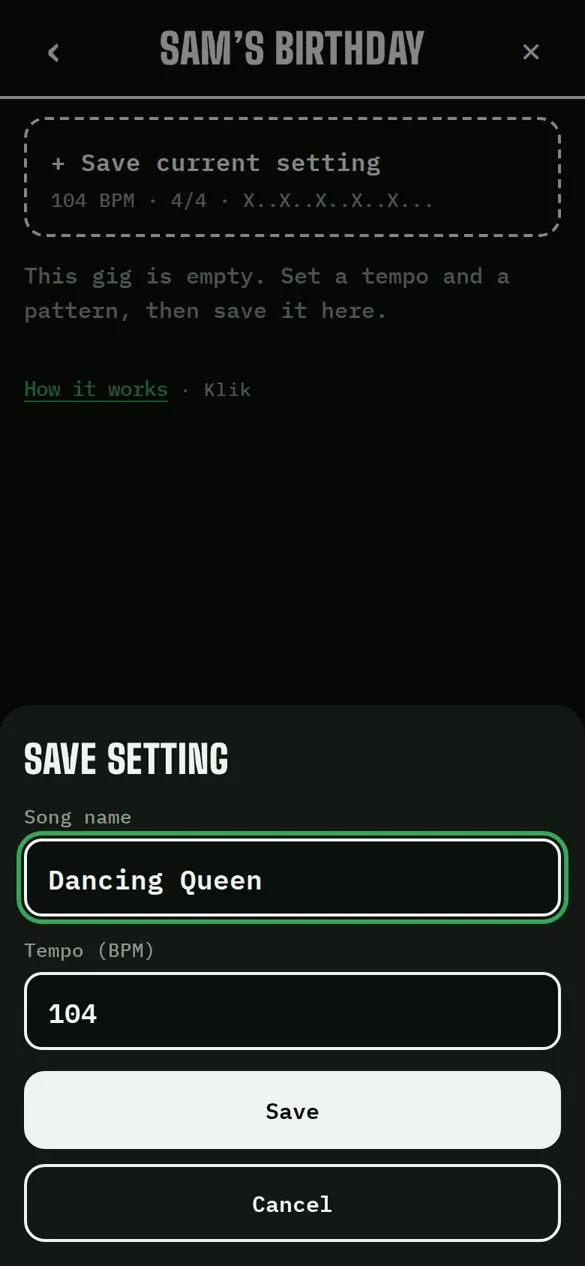
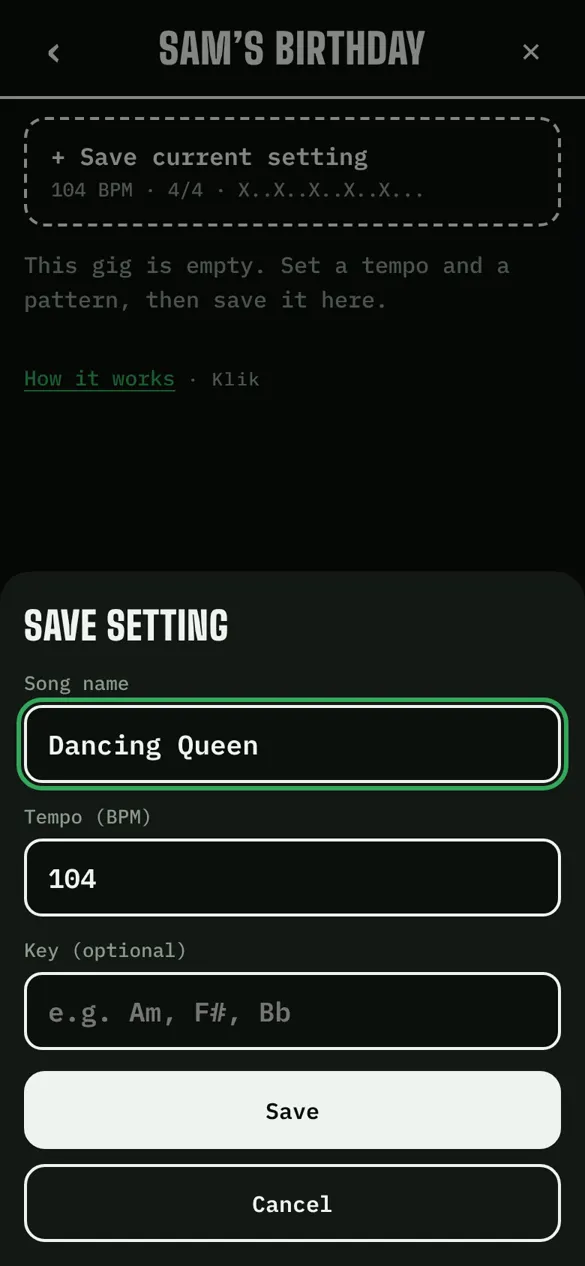
Klik v0.16.2: guide screenshots redone, guide part 5 on the band server
- Guide screenshots regenerated on the real app (SVG speaker icon, Key field),
  plus three new ones per language (nickname, shared setlists, new version
  banner) for a new part 5 "The band server" in guide.html. The service
  worker precaches them.
- video/guide-shots.mjs runs against the Klik server (shared setlists need
  the API) and the updated song menu label.
- New-version check: at most once every 10 s per gig instead of 60 s, so a
  gig reopened shortly after a publication shows the banner.

Claude-Session: https://claude.ai/code/session_01RyXC7JN4hfy6bK9Ln7GnCb

diff --git a/guide.html b/guide.html
@@ -4,7 +4,7 @@
   <meta charset="utf-8">
   <meta name="viewport" content="width=device-width, initial-scale=1, viewport-fit=cover">
   <title>Klik · Guide</title>
-  <meta name="description" content="Comment utiliser Klik : tempo, accents, setlist et partage. How to use Klik: tempo, accents, setlist and sharing.">
+  <meta name="description" content="Comment utiliser Klik : tempo, accents, setlist, partage et setlists partagées. How to use Klik: tempo, accents, setlist, sharing and shared setlists.">
   <meta name="theme-color" content="#0b0f0c">
   <link rel="icon" href="icons/icon.svg" type="image/svg+xml">
   <link rel="icon" href="icons/favicon-32.png" type="image/png" sizes="32x32">
@@ -136,10 +136,10 @@
         <p class="print-only" lang="en">Video walkthrough: klik.lonoize.com/guide.html</p>
       </div>
       <nav class="toc" lang="fr" aria-label="Sommaire">
-        <a href="#tempo">1 Le tempo</a><a href="#accents">2 Les accents</a><a href="#setlist">3 Ta setlist</a><a href="#partage">4 Partager</a>
+        <a href="#tempo">1 Le tempo</a><a href="#accents">2 Les accents</a><a href="#setlist">3 Ta setlist</a><a href="#partage">4 Partager</a><a href="#groupe">5 Le serveur du groupe</a>
       </nav>
       <nav class="toc" lang="en" aria-label="Contents">
-        <a href="#tempo">1 Tempo</a><a href="#accents">2 Accents</a><a href="#setlist">3 Your setlist</a><a href="#partage">4 Sharing</a>
+        <a href="#tempo">1 Tempo</a><a href="#accents">2 Accents</a><a href="#setlist">3 Your setlist</a><a href="#partage">4 Sharing</a><a href="#groupe">5 The band server</a>
       </nav>
     </header>
 
@@ -268,6 +268,36 @@
           </div>
         </div>
       </section>
+
+      <section class="part" id="groupe">
+        <div class="num">5</div>
+        <h2>Le serveur du groupe</h2>
+        <p class="lead">Les setlists au même endroit pour tout le monde.</p>
+        <div class="step">
+          <img src="guide/fr-13.webp" width="585" height="1266" loading="lazy" alt="Ton pseudo : Sam.">
+          <div>
+            <h3>Ton pseudo</h3>
+            <p>À la première ouverture de la liste, Klik demande un pseudo. Il dit au groupe <strong>qui a modifié ou publié</strong> une setlist.</p>
+            <p>On le change en bas de « Setlists partagées ».</p>
+          </div>
+        </div>
+        <div class="step">
+          <img src="guide/fr-14.webp" width="585" height="1266" loading="lazy" alt="Setlists partagées : Anniversaire Sam, 3 morceaux, publiée par Sam.">
+          <div>
+            <h3>Publier, récupérer</h3>
+            <p>Dans <span class="k">⋯</span> du concert, « Publier sur le serveur ». Le groupe le retrouve dans <strong>« Setlists partagées »</strong>, en haut de la liste des concerts, et l'importe d'un toucher.</p>
+            <p>Chaque publication est gardée : « Versions précédentes » ramène une ancienne version. Si quelqu'un a publié entre-temps, Klik prévient avant de publier par-dessus.</p>
+          </div>
+        </div>
+        <div class="step">
+          <img src="guide/fr-15.webp" width="585" height="1266" loading="lazy" alt="Bandeau : Nouvelle version sur le serveur, publiée par Sam.">
+          <div>
+            <h3>Toujours à jour</h3>
+            <p>Quand une setlist récupérée change sur le serveur, un bandeau <strong>« Nouvelle version sur le serveur »</strong> apparaît en haut du concert : un toucher, et c'est à jour.</p>
+            <p>Sans réseau, Klik marche comme avant, avec les setlists déjà sur le téléphone.</p>
+          </div>
+        </div>
+      </section>
     </div>
 
     <!-- ===================== ENGLISH ===================== -->
@@ -392,6 +422,36 @@
             <h3>A change? Send it again</h3>
             <p>After a change, send the link again. Klik recognises the gig and offers to <strong>replace it with the received version</strong>, or to keep both.</p>
             <p>In the gig's <span class="k">⋯</span> menu, “Restore previous version” undoes the replacement.</p>
+          </div>
+        </div>
+      </section>
+
+      <section class="part" id="groupe-en">
+        <div class="num">5</div>
+        <h2>The band server</h2>
+        <p class="lead">Setlists in one place for everyone.</p>
+        <div class="step">
+          <img src="guide/en-13.webp" width="585" height="1266" loading="lazy" alt="Your nickname: Sam.">
+          <div>
+            <h3>Your nickname</h3>
+            <p>The first time you open the list, Klik asks for a nickname. It tells the band <strong>who changed or published</strong> a setlist.</p>
+            <p>Change it at the bottom of “Shared setlists”.</p>
+          </div>
+        </div>
+        <div class="step">
+          <img src="guide/en-14.webp" width="585" height="1266" loading="lazy" alt="Shared setlists: Sam’s birthday, 3 songs, published by Sam.">
+          <div>
+            <h3>Publish, fetch</h3>
+            <p>In the gig's <span class="k">⋯</span> menu, “Publish to the server”. The band finds it in <strong>“Shared setlists”</strong>, at the top of the gig list, and imports it with one tap.</p>
+            <p>Every publication is kept: “Previous versions” brings an older one back. If someone published in the meantime, Klik warns you before publishing over it.</p>
+          </div>
+        </div>
+        <div class="step">
+          <img src="guide/en-15.webp" width="585" height="1266" loading="lazy" alt="Banner: New version on the server, published by Sam.">
+          <div>
+            <h3>Always up to date</h3>
+            <p>When a fetched setlist changes on the server, a <strong>“New version on the server”</strong> banner shows at the top of the gig: one tap and it's up to date.</p>
+            <p>Offline, Klik works as before, with the setlists already on the phone.</p>
           </div>
         </div>
       </section>

diff --git a/js/app.js b/js/app.js
@@ -1000,7 +1000,7 @@ button { position: fixed; top: 10px; right: 10px; padding: 10px 20px; font: 600 
   }
 
   // Y a-t-il une version plus récente sur le serveur ? (route légère api/concerts/:id/version)
-  // Résultat gardé 60 s par concert pour ne pas interroger le serveur à chaque affichage.
+  // Résultat gardé 10 s par concert pour ne pas interroger le serveur à chaque affichage.
   const seenRemote = new Map();   // id → { at, latest }
   function newerOnServer(c) {
     const s = c.remote && seenRemote.get(c.id);
@@ -1009,7 +1009,7 @@ button { position: fixed; top: 10px; right: 10px; padding: 10px 20px; font: 600 
   async function checkRemote(c, onNews) {
     if (!hasServer() || !c.remote) return;
     const s = seenRemote.get(c.id);
-    if (s && Date.now() - s.at < 60000) return;
+    if (s && Date.now() - s.at < 10000) return;
     seenRemote.set(c.id, { at: Date.now(), latest: s && s.latest });
     let latest = null;
     try { latest = (await api('GET', concertPath(c.id) + '/version')).body; } catch (e) { /* hors-ligne ou retiré du serveur */ }

diff --git a/sw.js b/sw.js
@@ -4,7 +4,7 @@
 // l'active avec le bandeau « Mettre à jour ».
 //
 // SOURCE UNIQUE DE LA VERSION : à incrémenter à CHAQUE modification déployée.
-const VERSION = '0.16.1';
+const VERSION = '0.16.2';
 
 const CACHE = 'klik-' + VERSION;
 const FONT_CACHE = 'klik-fonts';
@@ -37,6 +37,9 @@ const ASSETS = [
   'guide/fr-10.webp',
   'guide/fr-11.webp',
   'guide/fr-12.webp',
+  'guide/fr-13.webp',
+  'guide/fr-14.webp',
+  'guide/fr-15.webp',
   'guide/en-01.webp',
   'guide/en-02.webp',
   'guide/en-03.webp',
@@ -49,6 +52,9 @@ const ASSETS = [
   'guide/en-10.webp',
   'guide/en-11.webp',
   'guide/en-12.webp',
+  'guide/en-13.webp',
+  'guide/en-14.webp',
+  'guide/en-15.webp',
 ];
 
 // Chaque fichier est téléchargé avec ?v=VERSION : un cache intermédiaire (Cloudflare, proxy) qui

diff --git a/HANDOVER.md b/HANDOVER.md
@@ -2,20 +2,21 @@
 
 ## À faire
 
-- **Guide** (`guide.html`) : ajouter une étape « Setlists partagées » (publier, récupérer, versions) dans la partie
-  « Partager », avec une capture, quand on refait les captures. Le texte « pas de serveur » reste vrai pour le lien.
 - **Setlists partagées, idées** : lien de partage court vers une setlist du serveur (au lieu de tout le JSON dans
   `#k=…`) ; code de groupe si l'accès libre pose un jour problème.
-
 - **Vidéo de présentation** (`video/klik-presentation.mp4`) : pas refaite depuis le passage du haut-parleur
   en icône SVG (v0.14.1). On y voit encore l'emoji 🔊/🔇, et la légende « Muet ? » de `video/record.mjs`
-  (ligne `caption('Muet ?', …)`) cite l'emoji. À régénérer (voir `video/README.md`) quand on refait la vidéo.
-- **Captures du guide** (`guide/fr-NN.webp`, `guide/en-NN.webp`) : à refaire avec `node video/guide-shots.mjs`
-  pour montrer la nouvelle icône du haut-parleur et le champ « Tonalité » des formulaires de morceau.
-  Le texte de `guide.html` et du `README.md` est déjà à jour (icône SVG).
+  (ligne `caption('Muet ?', …)`) cite l'emoji. Elle ne montre pas non plus le champ « Tonalité » ni les setlists
+  partagées. À régénérer (voir `video/README.md`) quand on refait la vidéo.
+- **Coolify / Cloudflare** : désactiver « Enable Gzip Compression » dans Coolify (Traefik compresse aussi les PNG et
+  le MP4, ce qui casse les requêtes Range de la vidéo sur Safari), puis purger le cache Cloudflare ; régler
+  « Browser Cache TTL » sur « Respect Existing Headers ».
 
 ## Fait récemment
 
+- v0.16.2 : captures du guide refaites (icône du haut-parleur, champ Tonalité) et partie 5 « Le serveur du groupe »
+  (captures 13 à 15 : pseudo, setlists partagées, bandeau nouvelle version). `video/guide-shots.mjs` tourne sur le
+  serveur de Klik. Vérification des nouvelles versions : au plus une fois toutes les 10 s par concert (au lieu de 60).
 - v0.16.0 : serveur Node (`server/`) en container pour Coolify, volume `/data`. Setlists partagées : publier
   (menu ⋯ du concert), liste « Setlists partagées » (en haut des concerts, seulement si `api/health` répond),
   versions conservées, conflit signalé si quelqu'un a publié entre-temps (`c.remote` = version de base, stocké
@@ -23,7 +24,7 @@
 - v0.16.1 : pseudo (`data.pseudo`, demandé à la 1re ouverture de la liste quand le serveur répond, et avant de
   publier) ; champ `updatedBy` des concerts (format d'échange), mis à jour par `persist()` avec `updatedAt`.
   Route `GET /api/concerts/:id/version` ; bandeau « Nouvelle version sur le serveur » dans un concert récupéré
-  (vérifié au plus une fois par minute) et message au lancement pour le concert en cours. `publishedBy` côté serveur.
+  (vérifié au plus une fois toutes les 10 s) et message au lancement pour le concert en cours. `publishedBy` côté serveur.
 
 - v0.14.0 : champ `key` (tonalité) sur les morceaux ; setlist imprimable / téléchargeable en HTML (menu ⋯ du concert).
 - v0.14.1 : haut-parleur en SVG (`.mute-icon`, classe `is-muted`).

diff --git a/video/README.md b/video/README.md
@@ -22,5 +22,11 @@ Les textes à l'écran sont dans `record.mjs` (appels `caption`) et `stage.html`
 
 ## Captures du guide
 
-`guide-shots.mjs` refait les 24 captures de `guide.html` (`guide/fr-NN.webp`, `guide/en-NN.webp`) sur la vraie app,
-dans les deux langues. À relancer quand l'interface change (serveur local lancé comme ci-dessus).
+`guide-shots.mjs` refait les 30 captures de `guide.html` (`guide/fr-NN.webp`, `guide/en-NN.webp`) sur la vraie app,
+dans les deux langues, y compris les setlists partagées (13 à 15). À relancer quand l'interface change, avec le
+serveur de Klik (pas `http.server`, qui n'a pas l'API) :
+
+```sh
+DATA_DIR=$(mktemp -d) PORT=8765 node server/server.js   # à la racine du dépôt
+node video/guide-shots.mjs
+```
